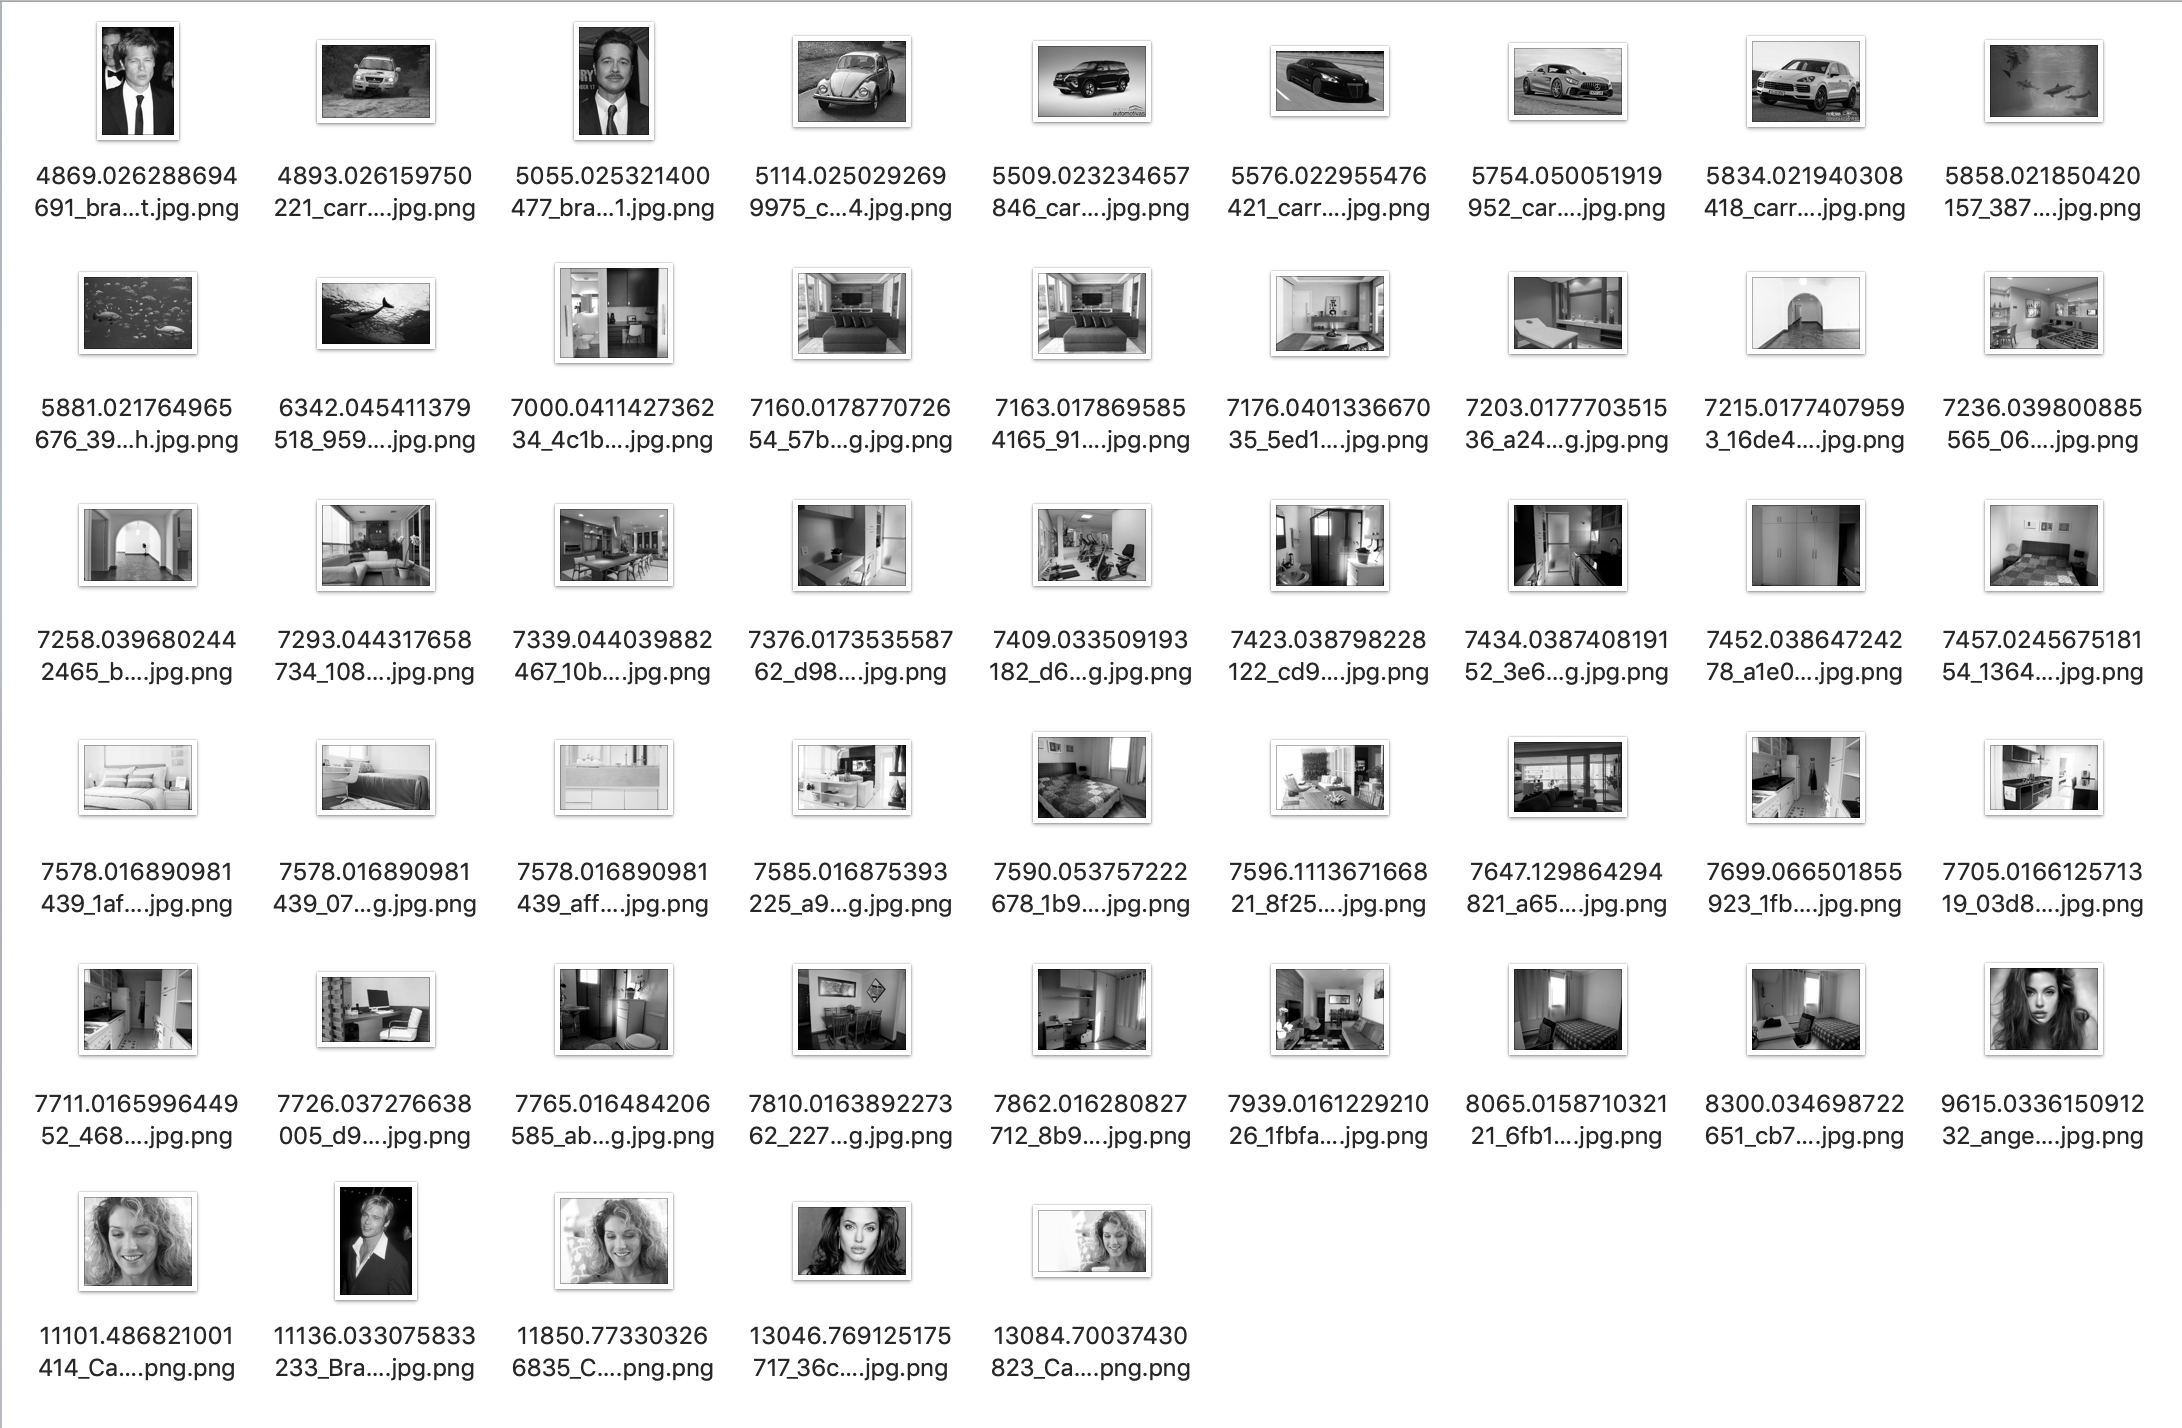
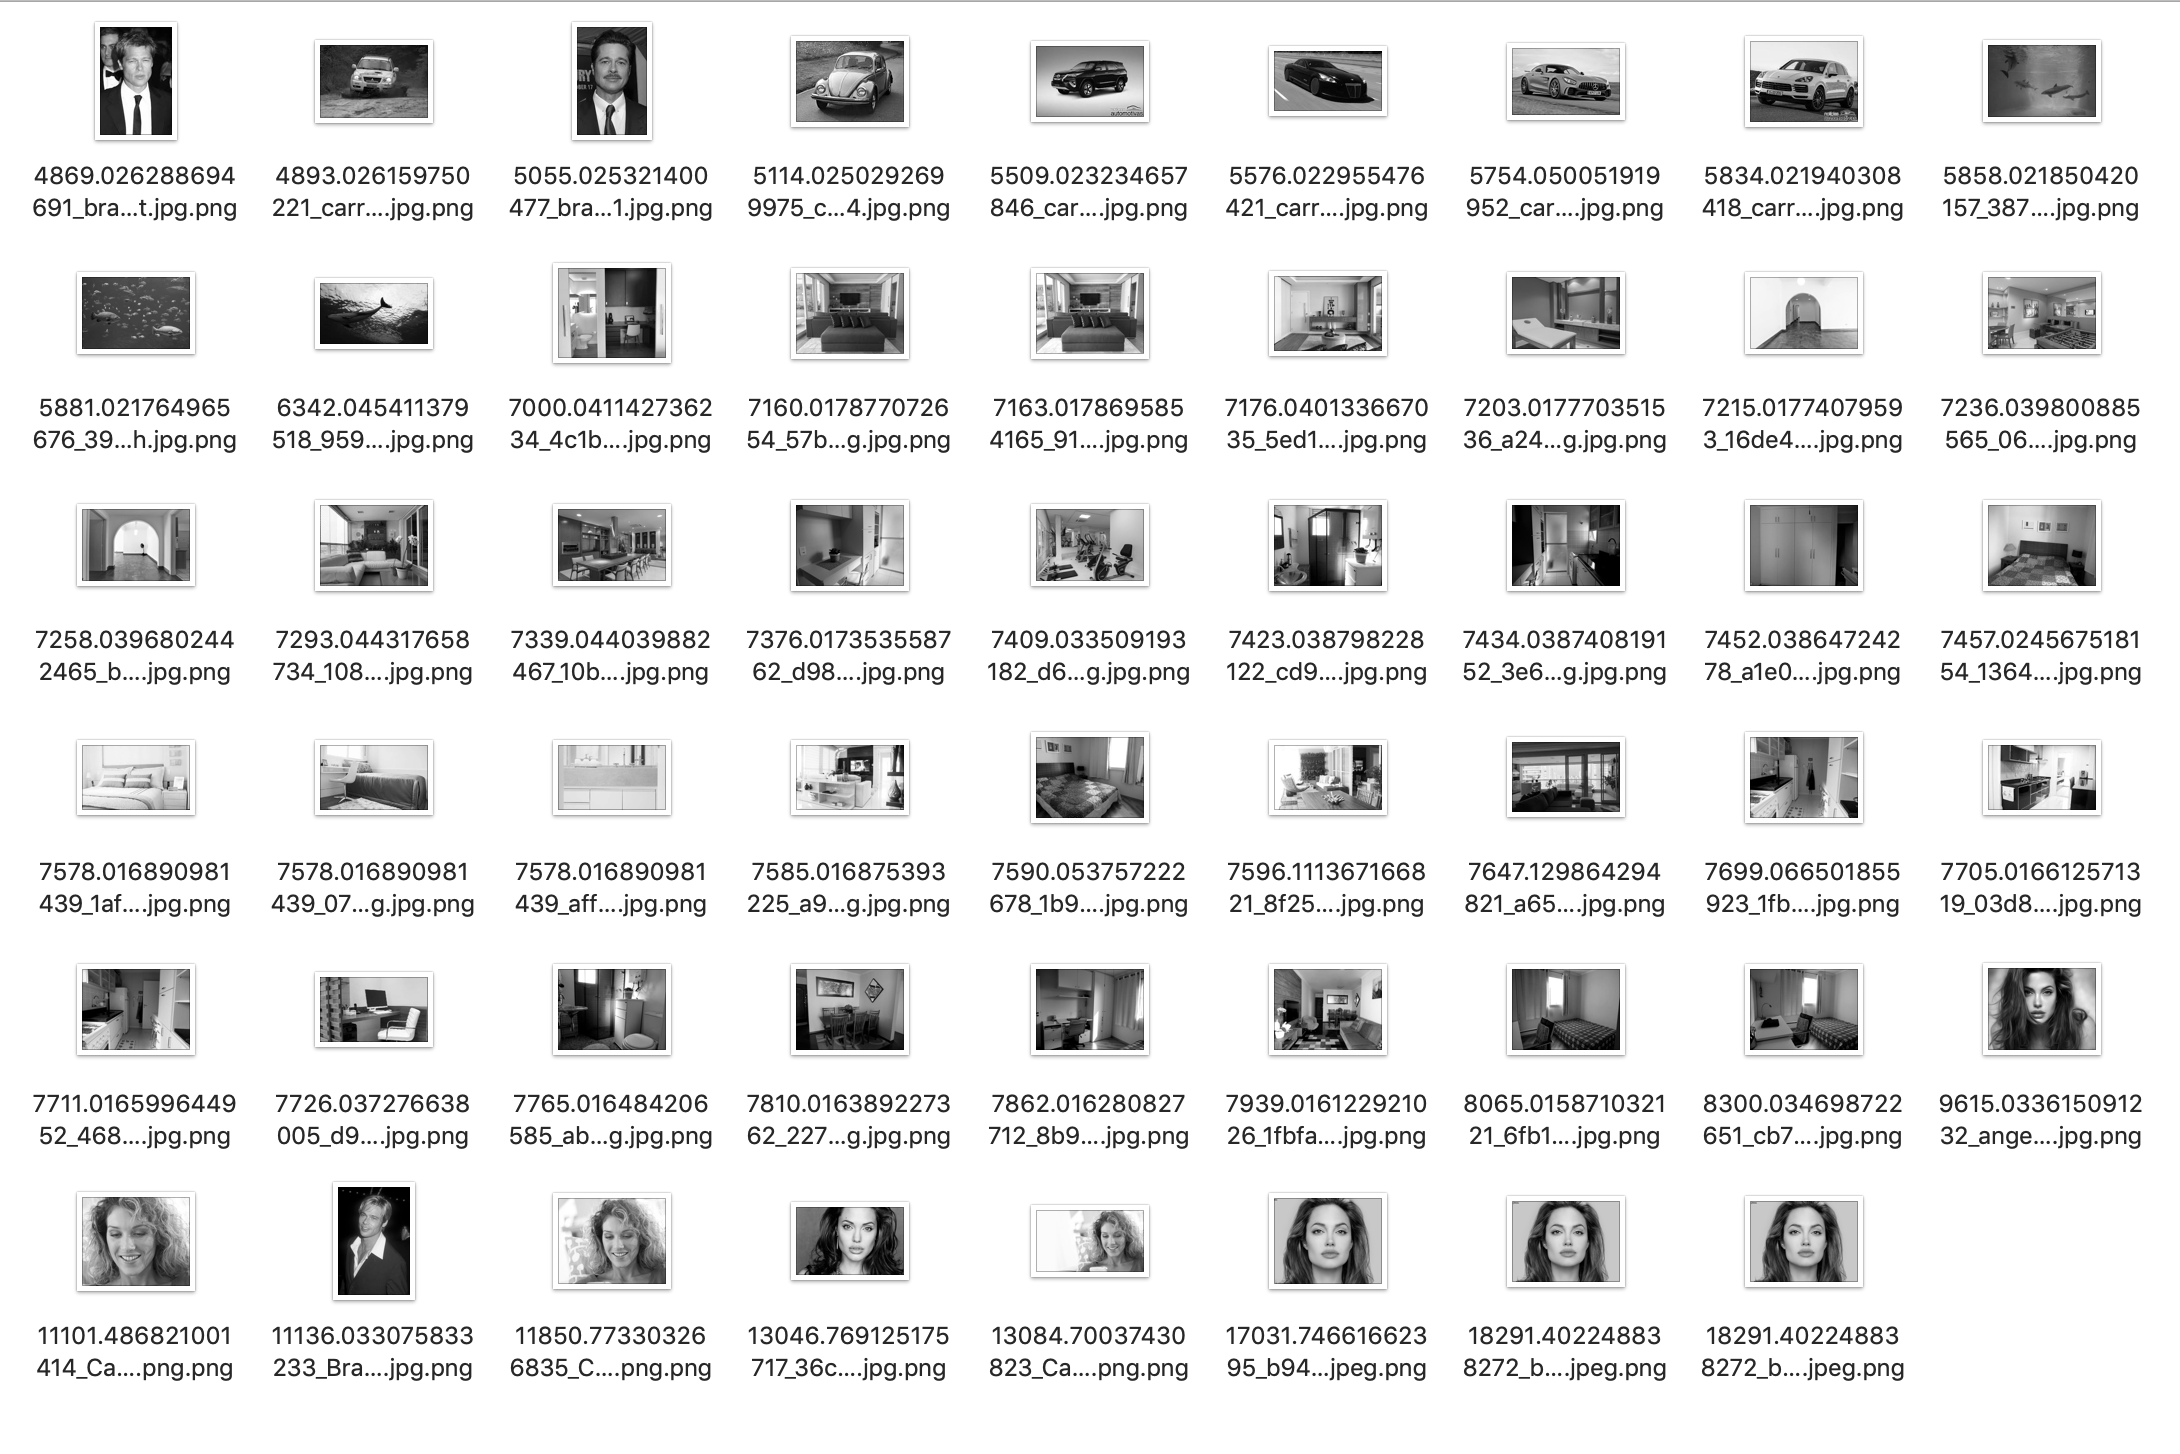
Improve image filter and adjust evidence

Changed region(s): [[0.0, 0.1849, 0.9982, 0.986], [0.0, 0.0308, 0.9982, 0.1541], [0.1248, 0.1849, 0.2183, 0.2465]]

diff --git a/src/main/java/ImageDistanceComparator.java b/src/main/java/ImageDistanceComparator.java
@@ -41,7 +41,7 @@ public class ImageDistanceComparator {
 		int count = 0;
 		int sucessCount = 0;
 		for (File aux : dir.listFiles()) {
-			if (aux.getName().contains(".jpg") || aux.getName().contains(".png")) {
+			if (aux.getName().contains(".jpg") || aux.getName().contains(".png") || aux.getName().contains(".jpeg")) {
 				try {
 					double score = score(aux);
 					System.out.println("Score:" + aux.getName() + "=>" + (score));
